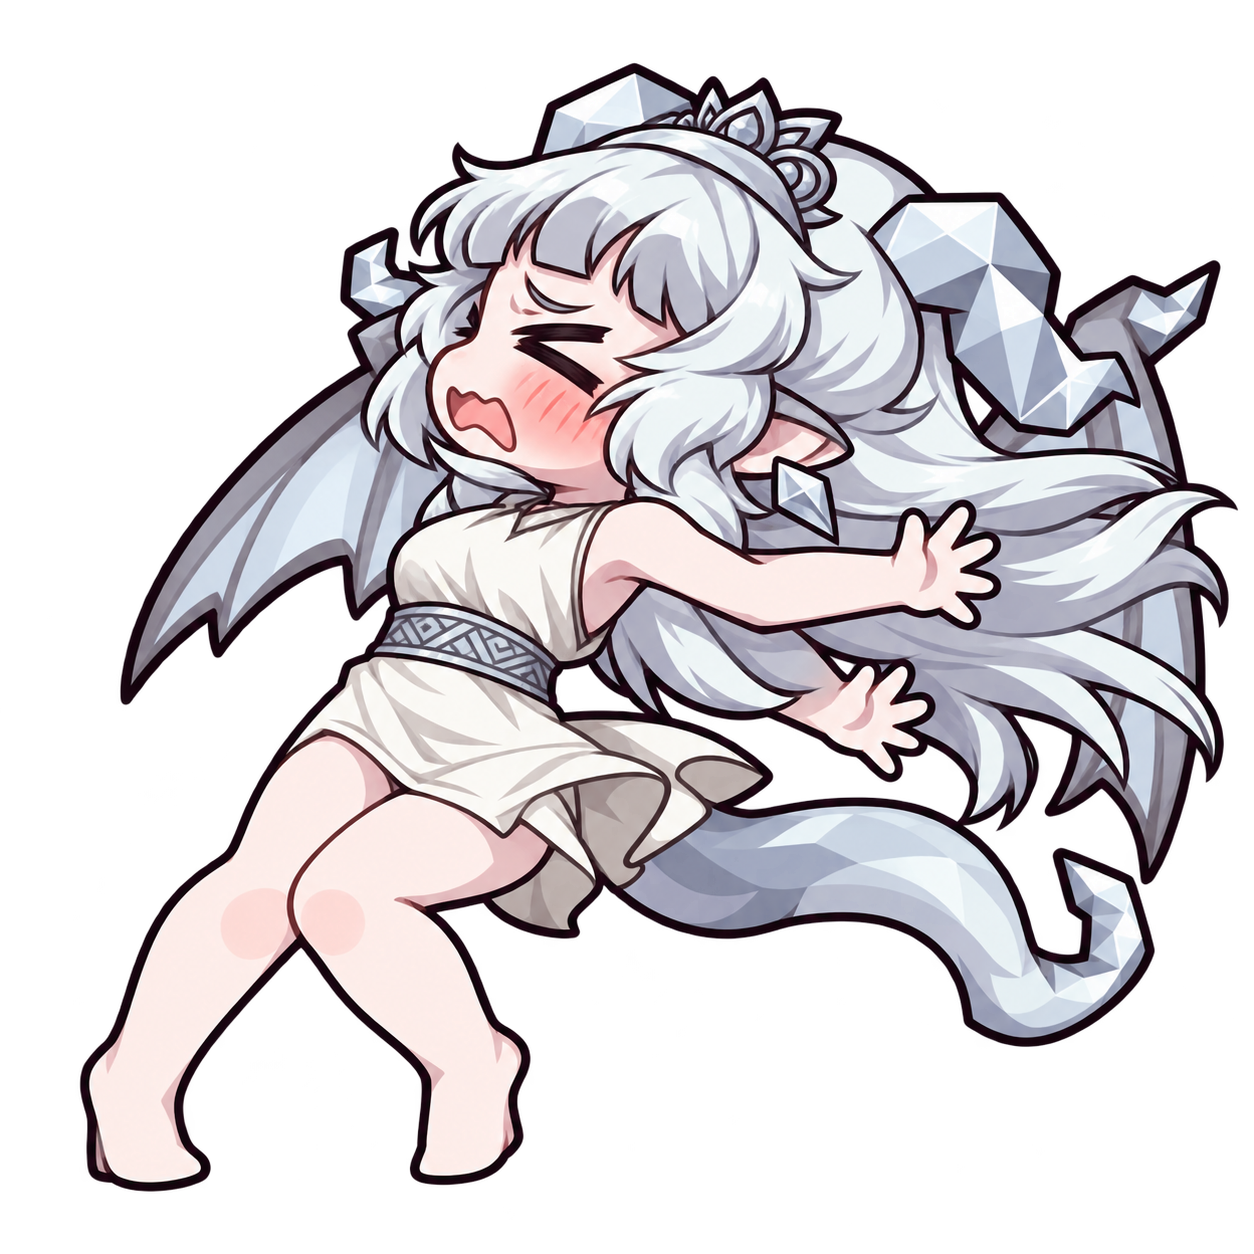
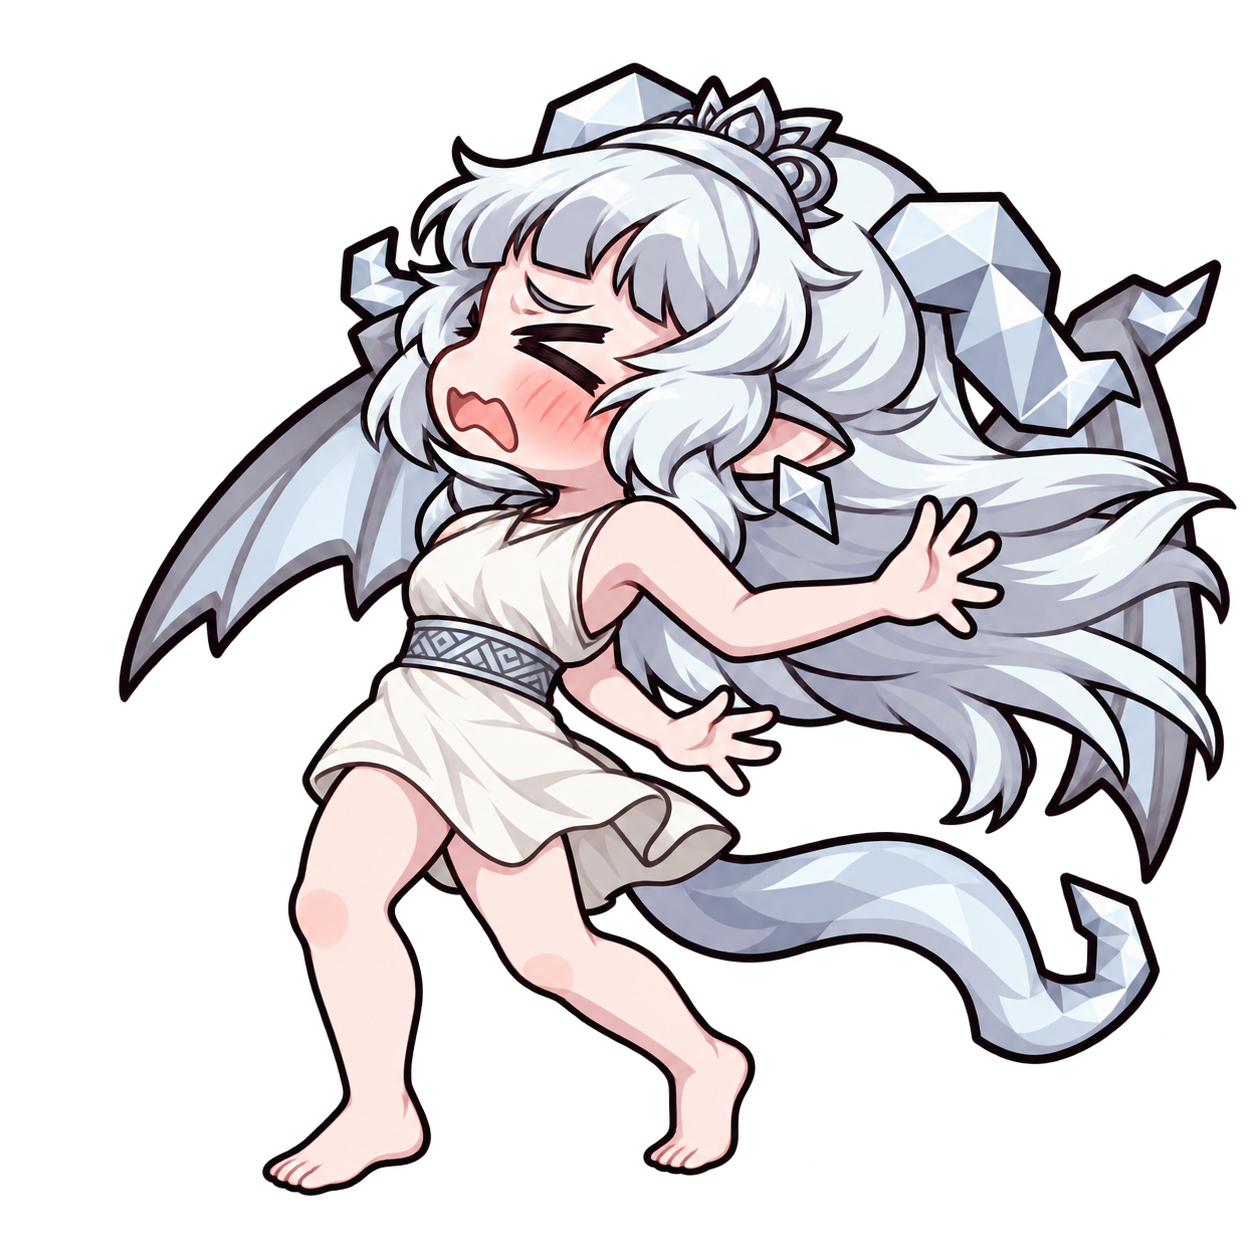
Refine Shady and Daya hit pose limb anatomy

diff --git a/docs/ui-trial/avatar-capture-v03.md b/docs/ui-trial/avatar-capture-v03.md
@@ -1,0 +1,15 @@
+# 셰이디·다야 피격 팔다리 수정
+
+내장 image_gen.imagegen으로 두 캐릭터의 hit.png만 다시 그렸다.
+얼굴·헤어·의상·장식과 왼쪽을 보는 얼굴/오른쪽 반동은 유지하고 팔다리 자세를 정리했다.
+셰이디: 어깨→팔꿈치→손의 연결이 드러나도록 팔을 위·아래로 나누고 두 다리를 분리했다.
+다야: 날개와 팔을 분리하고 무릎이 꼬이지 않는 뒷걸음 자세, 발목과 맨발을 다시 그렸다.
+PNG 원본 바이트를 그대로 복사했으며 1254×1254 RGBA다.
+
+실제 프롬프트·원본 경로·해시·이전 리비전은 avatar-capture-poses.json에 보존했다.
+나머지 여섯 피격 PNG는 변경 전후 해시가 같다. 공격 PNG 및 공통 배치 코드는 유지한다.
+
+게임 적용 화면: avatar-capture-v03-shady.png / avatar-capture-v03-daya.png.
+
+검증: 두 PNG의 RGBA/투명 모서리와 원본·대상 해시 확인, UI_CAPTURE_OK,
+네이티브 게임에서 두 피격 포즈와 공격 방향·간격을 확인했다.
